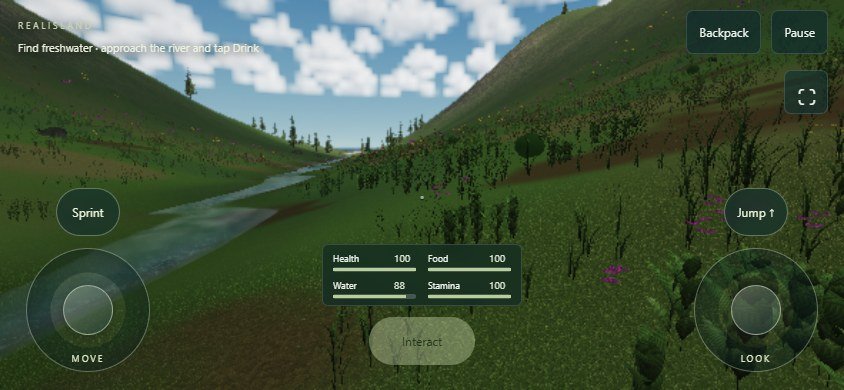
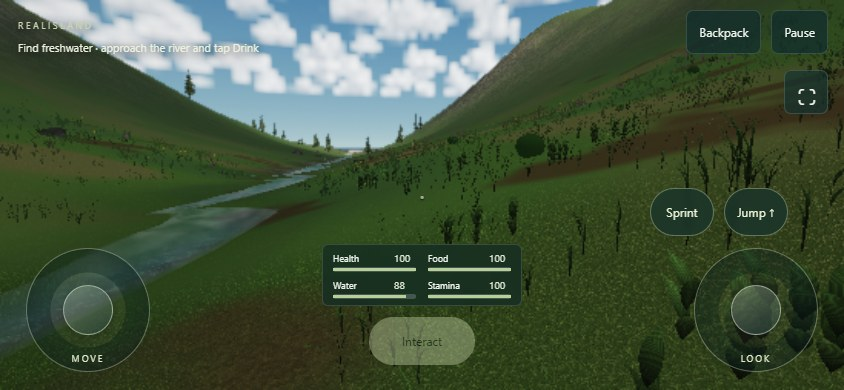
Reduce mobile GPU budgets and place sprint beside jump

diff --git a/src/coastal-patch.js b/src/coastal-patch.js
@@ -13,12 +13,13 @@ export class CoastalPatch {
   }
   constructor(parent,shoreX){
     this.parent=parent;this.shoreX=shoreX;this.runtime=parent.runtime;this.kernels=parent.kernels;this.bindings=new Map();
-    this.grid={nx:513,nz:401,x0:shoreX-105,z0:100,dx:.3,dz:.3};this.n=this.grid.nx*this.grid.nz;
+    this.spraySlots=parent.quality.spraySlots||256;this.sprayCount=105*this.spraySlots;
+    this.grid={nx:parent.quality.patchNx||513,nz:parent.quality.patchNz||401,x0:shoreX-105,z0:100,dx:.3,dz:.3};this.n=this.grid.nx*this.grid.nz;
     for(const key of ['World','R','Controls','DetailW'])this[key]=parent[key];
     this.Coarse=parent.S;this.CoarseEta=parent.Eta;
-    for(const [name,size] of [['S',this.n*19*4],['Aux',this.n*4*4],['Eta',this.n*4],['Terrain',this.n*8*4],['Scroll',this.n*19*4],['ScrollAux',this.n*4*4],['Particles',105*256*12*4],['Spray',105*256*8*4],['RockState',105*8*4]])this[name]=this.runtime.createBuffer(size,{label:`0.3 m coastal ${name}`});
+    for(const [name,size] of [['S',this.n*19*4],['Aux',this.n*4*4],['Eta',this.n*4],['Terrain',this.n*8*4],['Scroll',this.n*19*4],['ScrollAux',this.n*4*4],['Particles',this.sprayCount*12*4],['Spray',this.sprayCount*8*4],['RockState',105*8*4]])this[name]=this.runtime.createBuffer(size,{label:`0.3 m coastal ${name}`});
   }
-  values(extra={}){const g=this.parent.grid;return {...this.parent.values(),...this.grid,count:this.n,rockCount:105,slots:256,step:this.parent.steps,cnx:g.nx,cnz:g.nz,cx0:g.x0,cz0:g.z0,cdx:g.dx,cdz:g.dz,...extra};}
+  values(extra={}){const g=this.parent.grid;return {...this.parent.values(),...this.grid,count:this.n,rockCount:105,slots:this.spraySlots,step:this.parent.steps,cnx:g.nx,cnz:g.nz,cx0:g.x0,cz0:g.z0,cdx:g.dx,cdz:g.dz,...extra};}
   dispatch(batch,name,extra={},count=this.n){return this.parent.dispatch.call(this,batch,name,extra,count);}
   follow(batch,camera,basis){
     const g=this.grid,p=this.parent.grid;
@@ -47,7 +48,7 @@ export class CoastalPatch {
   }
   publish(batch){
     this.dispatch(batch,'reconstruct');this.dispatch(batch,'surfaceDetail');
-    this.dispatch(batch,'coastalImpact',{},105);this.dispatch(batch,'sprayVertices',{count:105*256},105*256);
+    this.dispatch(batch,'coastalImpact',{},105);this.dispatch(batch,'sprayVertices',{count:this.sprayCount},this.sprayCount);
     this.dispatch(batch,'exchangeCoastalPatch',{},this.parent.n);
   }
   async diagnostics(){

diff --git a/src/main.js b/src/main.js
@@ -52,11 +52,13 @@ function wire(){
 }
 function frame(timestamp) {
  if(stopped)return;requestAnimationFrame(frame);if(busy||document.hidden)return;
- const now=timestamp/1000,dt=last?Math.min(.1,now-last):1/60;last=now;
+ const now=timestamp/1000,cap=game?.touch?.enabled?(game.phase==='playing'&&!game.touch.portrait?30:15):0;
+ if(cap&&last&&now-last<1/cap-.001)return;
+ const dt=last?Math.min(.1,now-last):1/60;last=now;const workStart=performance.now();
  try{busy=true;const basis=game?game.update(dt):controls.update(dt);sim.frame(dt,game?(game.phase!=='playing'||game.touch?.portrait):paused,controls.camera,basis,renderer.width/renderer.height);renderer.frame(controls.camera,basis,now);game?.syncCollision();
- sim.device.queue.onSubmittedWorkDone().then(()=>{const finish=performance.now();if(previousCompletion){frames.push(finish-previousCompletion);if(frames.length>240)frames.shift();}previousCompletion=finish;busy=false;
- if(now-lastHud>.75){const recent=frames.slice(-60),mean=recent.reduce((a,b)=>a+b,0)/Math.max(1,recent.length);$('fps').textContent=`${mean>0?(1000/mean).toFixed(0):'—'} FPS`;$('resolution').textContent=`${renderer.width} × ${renderer.height}`;$('sim-clock').textContent=`${sim.time.toFixed(1)} s · ${sim.grid.nx}² cells`;
- if($('adaptive').checked&&quality!=='test'&&frames.length>45){const old=renderer.scale;if(mean>23)renderer.scale=Math.max(.50,old-.035);else if(mean<15.5)renderer.scale=Math.min(renderer.q.scale,old+.015);}
+ sim.device.queue.onSubmittedWorkDone().then(()=>{const finish=performance.now();if(previousCompletion){frames.push(cap?finish-workStart:finish-previousCompletion);if(frames.length>240)frames.shift();}previousCompletion=finish;busy=false;
+ if(now-lastHud>.75){const recent=frames.slice(-60),mean=recent.reduce((a,b)=>a+b,0)/Math.max(1,recent.length);$('fps').textContent=`${mean>0?(Math.min(cap||Infinity,1000/mean)).toFixed(0):'—'} FPS`;$('resolution').textContent=`${renderer.width} × ${renderer.height}`;$('sim-clock').textContent=`${sim.time.toFixed(1)} s · ${sim.grid.nx}² cells`;
+ if($('adaptive').checked&&quality!=='test'&&frames.length>45){const old=renderer.scale;if(mean>(cap?29:23))renderer.scale=Math.max(cap ? .45 : .50,old-.035);else if(mean<(cap?21:15.5))renderer.scale=Math.min(renderer.q.scale,old+.015);}
  lastHud=now;}
  }).catch(fail);
  }catch(error){busy=false;fail(error);}

diff --git a/src/renderer.js b/src/renderer.js
@@ -199,7 +199,7 @@ export class IslandRenderer {
     const encoder=d.createCommandEncoder({label:'RealIsland frame'});
     this.forest.aspect=this.width/this.height;this.forest.encode(encoder,camera,basis,s.tide,false);
     if(this.q.reflection)this.forest.encode(encoder,camera,basis,s.tide,true);
-    if((stage==='all'&&now-this.lastWeather>.12)||stage==='weather'){
+    if((stage==='all'&&now-this.lastWeather>(this.q.weatherInterval||.12))||stage==='weather'){
       for(const name of ['environment','light']){const pass=encoder.beginRenderPass({label:name,colorAttachments:[{view:this[name].view,loadOp:'clear',storeOp:'store',clearValue:{r:1,g:1,b:1,a:1}}]});pass.setPipeline(this.pipelines[name]);pass.setBindGroup(0,this.groups[name]);pass.setBindGroup(1,this.blankImages);pass.draw(3);pass.end();}
       this.lastWeather=now;
     }
@@ -216,7 +216,7 @@ export class IslandRenderer {
     water.setBindGroup(0,this.groups.terrain);water.setBindGroup(1,this.waterImages);water.setPipeline(this.pipelines.water);water.setIndexBuffer(this.geometry.terrain.buffer,'uint32');water.drawIndexed(this.geometry.terrain.count);
     water.setBindGroup(0,this.groups.patch);water.setIndexBuffer(this.patchGeometry.buffer,'uint32');water.drawIndexed(this.patchGeometry.count);
     water.setBindGroup(0,this.groups.terrain);water.setPipeline(this.pipelines.farWater);water.draw(4*32*32*6);
-    water.setPipeline(this.pipelines.spray);water.setBindGroup(0,this.groups.spray);water.draw(6,SPRAY_COUNT);water.setBindGroup(0,this.groups.coastSpray);water.draw(6,105*256);water.end();
+    water.setPipeline(this.pipelines.spray);water.setBindGroup(0,this.groups.spray);water.draw(6,SPRAY_COUNT);water.setBindGroup(0,this.groups.coastSpray);water.draw(6,this.sim.coast.sprayCount);water.end();
     }
     if(stage==='water'){d.queue.submit([encoder.finish()]);return;}
     const post=encoder.beginRenderPass({label:'display',colorAttachments:[{view:this.context.getCurrentTexture().createView(),loadOp:'clear',storeOp:'store',clearValue:{r:0,g:0,b:0,a:1}}]});post.setPipeline(this.pipelines.post);post.setBindGroup(0,this.postGroup);post.draw(3);post.end();

diff --git a/src/quality.js b/src/quality.js
@@ -1,5 +1,5 @@
 export const QUALITY = Object.freeze({
-  low: {name:'Low · mobile', grid:513, trees:1200, grass:262144, scale:.70, maxDpr:1, cloudSteps:24, envWidth:384, envHeight:96, light:192, reflection:false, distant:128, maxSteps:4},
+  low: {name:'Low · mobile', grid:513, trees:600, grass:65536, scale:.65, maxDpr:1, cloudSteps:12, envWidth:384, envHeight:96, light:96, reflection:false, distant:64, maxSteps:4, patchNx:257, patchNz:257, spraySlots:64, weatherInterval:.3},
   balanced: {name:'Balanced', grid:769, trees:2200, grass:524288, scale:.85, maxDpr:1.5, cloudSteps:48, envWidth:1024, envHeight:256, light:512, reflection:true, distant:256, maxSteps:4},
   high: {name:'High', grid:1025, trees:3000, grass:1048576, scale:1, maxDpr:1.5, cloudSteps:64, envWidth:1536, envHeight:384, light:768, reflection:true, distant:256, maxSteps:4},
   ultra: {name:'Ultra · desktop', grid:1281, trees:4000, grass:2097152, scale:1, maxDpr:2, cloudSteps:80, envWidth:2048, envHeight:512, light:1024, reflection:true, distant:384, maxSteps:4},

diff --git a/src/scene-shaders.js b/src/scene-shaders.js
@@ -356,7 +356,8 @@ ${oceanWgsl}
   level=mix(level,isle.weather.x,blend);slope=mix(slope,outer.yz,blend);
    if(isle.grid.w==1u){
     let edge=min(min(pos.x-isle.coastBounds.x,isle.coastBounds.z-pos.x),min(pos.y-isle.coastBounds.y,isle.coastBounds.w-pos.y));
-    let fine=smoothstep(8.,32.,edge);let d=isle.view.w;
+    let blendEnd=min(32.,max(12.,min(f32(isle.grid.x)*isle.domain.z,f32(isle.grid.y)*isle.domain.w)*.5-24.));
+    let fine=smoothstep(8.,blendEnd,edge);let d=isle.view.w;
     let cs=vec2f(coarseLevel(pos+vec2f(d,0.))-coarseLevel(pos-vec2f(d,0.)),coarseLevel(pos+vec2f(0.,d))-coarseLevel(pos-vec2f(0.,d)))/(2.*d);
     level=mix(coarseLevel(pos),level,fine);slope=mix(cs,slope,fine);
     foam=mix(vec2f(parentField(5u,pos),parentField(6u,pos)),foam,fine);

diff --git a/src/game.css b/src/game.css
@@ -67,3 +67,8 @@ body.touch-game{overscroll-behavior:none}
  #loading #load-log{height:70px;margin-top:10px}
  #loading .load-subtitle{margin:8px 0}
 }
+
+/* Both actions belong to the right thumb; movement stays under the left thumb. */
+#touch-sprint{left:auto;right:calc(130px + env(safe-area-inset-right));bottom:calc(154px + env(safe-area-inset-bottom))}
+#touch-jump{right:calc(56px + env(safe-area-inset-right))}
+@media(max-height:350px) and (orientation:landscape){#touch-sprint{bottom:122px}}

diff --git a/scripts/benchmark-mobile.py b/scripts/benchmark-mobile.py
@@ -1,0 +1,32 @@
+import json,os,subprocess
+from pathlib import Path
+from playwright.sync_api import sync_playwright
+with sync_playwright() as p:
+ b=p.chromium.launch(channel='msedge',headless=True,args=['--enable-unsafe-webgpu'])
+ page=b.new_page(viewport={'width':844,'height':390},has_touch=True,is_mobile=True,device_scale_factor=1)
+ if os.environ.get('BENCH_BASELINE'):
+  for name in ['quality.js','coastal-patch.js','renderer.js','scene-shaders.js','main.js']:
+   content=subprocess.check_output(['git','show',os.environ['BENCH_BASELINE']+':src/'+name],text=True,encoding='utf8')
+   page.route('**/src/'+name,lambda route,request,content=content:route.fulfill(status=200,content_type='text/javascript',body=content))
+ page.goto('http://localhost:5180/?quality=low&mode=explore&manual=1&seed=1741&view=river')
+ page.wait_for_function('realIsland.ready||realIsland.errors.length',timeout=240000)
+ assert page.evaluate('realIsland.ready'),page.evaluate('realIsland.errors')
+ result=page.evaluate('''async()=>{
+ const a=realIsland,rt=a.sim.runtime,samples=[],compute=[],render=[],gpu=[];
+ const d=rt.device,query=d.createQuerySet({type:'timestamp',count:128}),resolve=d.createBuffer({size:1024,usage:GPUBufferUsage.QUERY_RESOLVE|GPUBufferUsage.COPY_SRC}),read=d.createBuffer({size:1024,usage:GPUBufferUsage.MAP_READ|GPUBufferUsage.COPY_DST});
+ const original=d.createCommandEncoder.bind(d);let cursor=0;
+ d.createCommandEncoder=(...args)=>{const e=original(...args);
+ for(const method of ['beginComputePass','beginRenderPass']){const begin=e[method].bind(e);e[method]=(desc={})=>{const start=cursor;cursor+=2;return begin({...desc,timestampWrites:{querySet:query,beginningOfPassWriteIndex:start,endOfPassWriteIndex:start+1}});};}return e;};
+
+ for(let i=0;i<90;i++){
+  cursor=0;const basis=a.cameraBasis(a.camera),start=performance.now();
+  a.sim.frame(1/30,false,a.camera,basis,a.renderer.width/a.renderer.height);await rt.idle();const middle=performance.now();
+  a.renderer.frame(a.camera,basis,i/30);await rt.idle();const end=performance.now();
+  const e=original();e.resolveQuerySet(query,0,cursor,resolve,0);e.copyBufferToBuffer(resolve,0,read,0,cursor*8);d.queue.submit([e.finish()]);await read.mapAsync(GPUMapMode.READ);const times=new BigUint64Array(read.getMappedRange());let gpuMs=0;for(let k=0;k<cursor;k+=2)gpuMs+=Number(times[k+1]-times[k])/1e6;read.unmap();
+  if(i>14){gpu.push(gpuMs);samples.push(end-start);compute.push(middle-start);render.push(end-middle);}
+ }
+ const stats=v=>{v.sort((a,b)=>a-b);return {median:v[Math.floor(v.length*.5)],p95:v[Math.floor(v.length*.95)]};};
+ return {gpu:stats(gpu),frame:stats(samples),compute:stats(compute),render:stats(render),grass:a.sim.count,trees:a.sim.treeCount,patch:a.sim.coast.grid,renderSize:[a.renderer.width,a.renderer.height],errors:a.errors,environment:'Desktop GPU, phone viewport; not physical mobile FPS'};
+ }''')
+ assert not result['errors'],result
+ target=Path(os.environ.get('BENCH_REPORT','reports/mobile-benchmark.json'));target.write_text(json.dumps(result,indent=2));print(json.dumps(result));b.close()

diff --git a/scripts/test-mobile.py b/scripts/test-mobile.py
@@ -14,6 +14,13 @@ with sync_playwright() as p:
  page.get_by_role('button',name='New journey',exact=True).tap()
  page.wait_for_timeout(300)
  assert page.locator('#touch-move').is_visible()
+ sprint_box=page.locator('#touch-sprint').bounding_box();jump_box=page.locator('#touch-jump').bounding_box()
+ assert abs(sprint_box['y']-jump_box['y'])<2 and sprint_box['x']>422
+ fps_start=page.evaluate('realIsland.renderer.frameCount');page.wait_for_timeout(1000)
+ frames=page.evaluate('realIsland.renderer.frameCount')-fps_start
+ assert 1<=frames<=33,frames
+ assert page.evaluate('realIsland.sim.coast.n')==257*257
+
  cdp=page.context.new_cdp_session(page)
  def pos(selector):
   r=page.locator(selector).bounding_box()

diff --git a/docs/mobile-performance.md b/docs/mobile-performance.md
@@ -1,0 +1,52 @@
+# Mobile performance pass
+
+The earlier Low preset still used desktop's 513 × 401 close-up water tile.
+This pass keeps the parent island terrain and water solver unchanged, retaining
+0.3 m water cells while reducing the area simulated at that resolution.
+
+| Low preset budget | Before | After |
+| --- | ---: | ---: |
+| Fine water cells | 205,713 | 66,049 |
+| Grass capacity | 262,144 | 65,536 |
+| Trees | 1,200 | 600 |
+| Coastal spray slots per rock | 256 | 64 |
+| Cloud ray steps | 24 | 12 |
+| Cloud map | 384 × 96 | 384 × 96 (retained for sky quality) |
+| Shadow map | 192 × 192 | 96 × 96 |
+| Distant grass tiles | 128² | 64² |
+| Initial resolution scale | 70% | 65% |
+
+The smaller tile retains the existing coarse/fine blend with a shorter blend
+distance, so close-up water still reaches full detail around the player.
+The reduced tile also lowers collision readback size. High/Balanced/Ultra
+retain their existing budgets.
+
+Touch play is paced at 30 FPS; menus and portrait mode at 15 FPS. Adaptive
+resolution uses submitted frame work time instead of interpreting intentional
+frame pacing as GPU overload. Its mobile lower bound is 45%.
+
+## Measurement
+
+Run python scripts/benchmark-mobile.py for timestamp-query GPU measurements.
+Set BENCH_BASELINE=7c6661e to serve the prior rendering modules in the benchmark
+browser without changing the checkout. BENCH_REPORT selects its JSON report.
+
+A desktop hardware GPU, 844 × 390 phone viewport, fixed river view and 30 Hz
+simulation workload gave median GPU pass time of **0.711 ms before** and
+**0.463 ms after**, a **34.9% reduction**. These are GPU timestamps, not phone
+FPS; browser submission/readback overhead is measured separately. Physical
+phone and thermal testing remains necessary.
+
+The mobile browser test covers right-thumb button placement, frame pacing,
+two simultaneous sticks, interrupted touches, jump, gathering, eating,
+portrait pause, menus and saving. Full water/GPU validation also runs at Low.
+
+
+## Known validation limit
+
+The Low preset's parent-grid watershed connectivity audit fails both on the
+previous published build (7c6661e) and this pass: reachesOcean=false with the
+same 0.2176895 m maximum uphill step. This pass does not change that terrain.
+All shader stages, finite-state checks, closed-wave propagation and lake-at-rest
+tests passed, and ordinary exploration frames added no readbacks or data uploads.
+The complete Low GPU report is therefore **not** an all-pass report.

diff --git a/README.md b/README.md
@@ -36,6 +36,9 @@ with a WebGPU-capable browser. Play **landscape**: the left analog stick moves,
 the right looks around. Partial stick travel walks slowly; hold **Sprint** to
 run. **Jump**, **Gather / Drink**, **Backpack**, and **Pause** have touch buttons.
 
+Sprint sits beside Jump above the right stick. Touch gameplay targets 30 FPS.
+The Low preset uses a smaller nearby water tile, fewer plants and cheaper clouds.
+
 New touch sessions default to Low quality and adaptive resolution. Controls
 respect screen cutouts and reset on interruption. Portrait mode pauses gameplay.
 Tap **⛶** or **Enter landscape** to request fullscreen and landscape orientation;
@@ -135,7 +138,8 @@ not a claim of photorealism or simulated erosion. See [credits](CREDITS.md) and
 [design limitations](docs/island-design.md).
 
 Water detail follows the camera throughout the island at 0.3 m spacing.
-The moving 153.6 × 120 m grid scrolls in whole cells, preserving overlapping
+Low uses a 76.8 × 76.8 m tile to reduce mobile GPU work.
+On Balanced/High/Ultra, the moving 153.6 × 120 m grid scrolls in whole cells, preserving overlapping
 water, foam, wetness and flow exactly. New cells inherit live island water and
 resolve local rock collisions; moving or changing views does not reset the clock.
 The island grid continues simulating outside the detail region. The two grids

diff --git a/docs/how-to-play.md b/docs/how-to-play.md
@@ -23,6 +23,10 @@ creates local ripples and a wake.
 | Pause | Escape | Pause |
 | Fullscreen / landscape | Browser fullscreen | ⛶ or Settings → Fullscreen · landscape |
 
+Sprint and Jump sit together above the right stick, leaving your left thumb free
+to keep moving. Touch gameplay targets 30 FPS (menus 15 FPS) to limit sustained
+GPU and battery load.
+
 Both sticks work simultaneously. Release them to stop moving/turning. A small
 dead zone prevents accidental movement, and partial stick travel gives slower
 movement. Menus and interrupted touches clear held controls.
